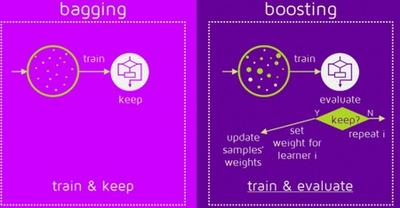
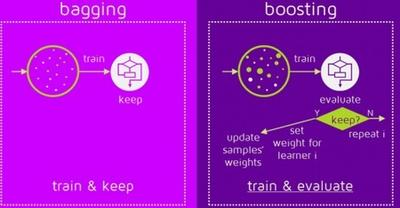
Nikola auto commit.
Source commit: badc1da1ce9cc6410a2ba24fb7f04c6ca391f97f
Nikola version: 8.0.1

diff --git a/posts/bikeshare part3/index.html b/posts/bikeshare part3/index.html
@@ -832,7 +832,7 @@ We w">
 <div class="text_cell_render border-box-sizing rendered_html">
 <h3 id="RMSLE-Calculator-Function">RMSLE Calculator Function<a class="anchor-link" href="../bikeshare%20part3/#RMSLE-Calculator-Function">¶</a>
 </h3>
-<p>In this Kaggle competion we seek to identify the models that result in predictions which minimize the Root Mean Squared Error. In the earlier post we talk about this metric in detail</p>
+<p>In this Kaggle competion we seek to identify the models that result in predictions which minimize the Root Mean Squared Logaritmic Error (RMSLE). In the earlier post we talk about this metric in detail</p>
 
 </div>
 </div>
@@ -1679,7 +1679,7 @@ MSLE values:[0.37469821 0.27166134 0.49502135 0.25451078 0.22058993]
 </div>
 <div class="inner_cell">
 <div class="text_cell_render border-box-sizing rendered_html">
-<p><img src="../../images/kaggle_rf.png" alt="kaggle_rf"></p>
+<p><img src="../../images/kagglerf.jpg" alt="kagglerf"></p>
 
 </div>
 </div>
@@ -1990,7 +1990,7 @@ MSLE values:[0.3274513  0.26323764 0.46385981 0.23215547 0.20955404]
 </div>
 <div class="inner_cell">
 <div class="text_cell_render border-box-sizing rendered_html">
-<p><img src="../../images/ada.png" alt="ada"></p>
+<p><img src="../../images/kaggleada.jpg" alt="kaggleada"></p>
 
 </div>
 </div>

diff --git a/posts/tree-based models/index.html b/posts/tree-based models/index.html
@@ -676,7 +676,7 @@ We will try to improve our prediction scor">
 <li>In bagging, each learner randomly chooses samples by replacement</li>
 <li>In boosting, each learner chooses samples from a weighted samples set</li>
 </ul>
-<p><img src="../../images/sbb.png" alt="sbb"></p>
+<p><img src="../../images/sbb.jpg" alt="sbb"></p>
 
 </div>
 </div>
@@ -700,7 +700,7 @@ We will try to improve our prediction scor">
 </div>
 <div class="inner_cell">
 <div class="text_cell_render border-box-sizing rendered_html">
-<p><img src="../../images/bb.png" alt="bb"></p>
+<p><img src="../../images/bb.jpg" alt="bb"></p>
 
 </div>
 </div>
